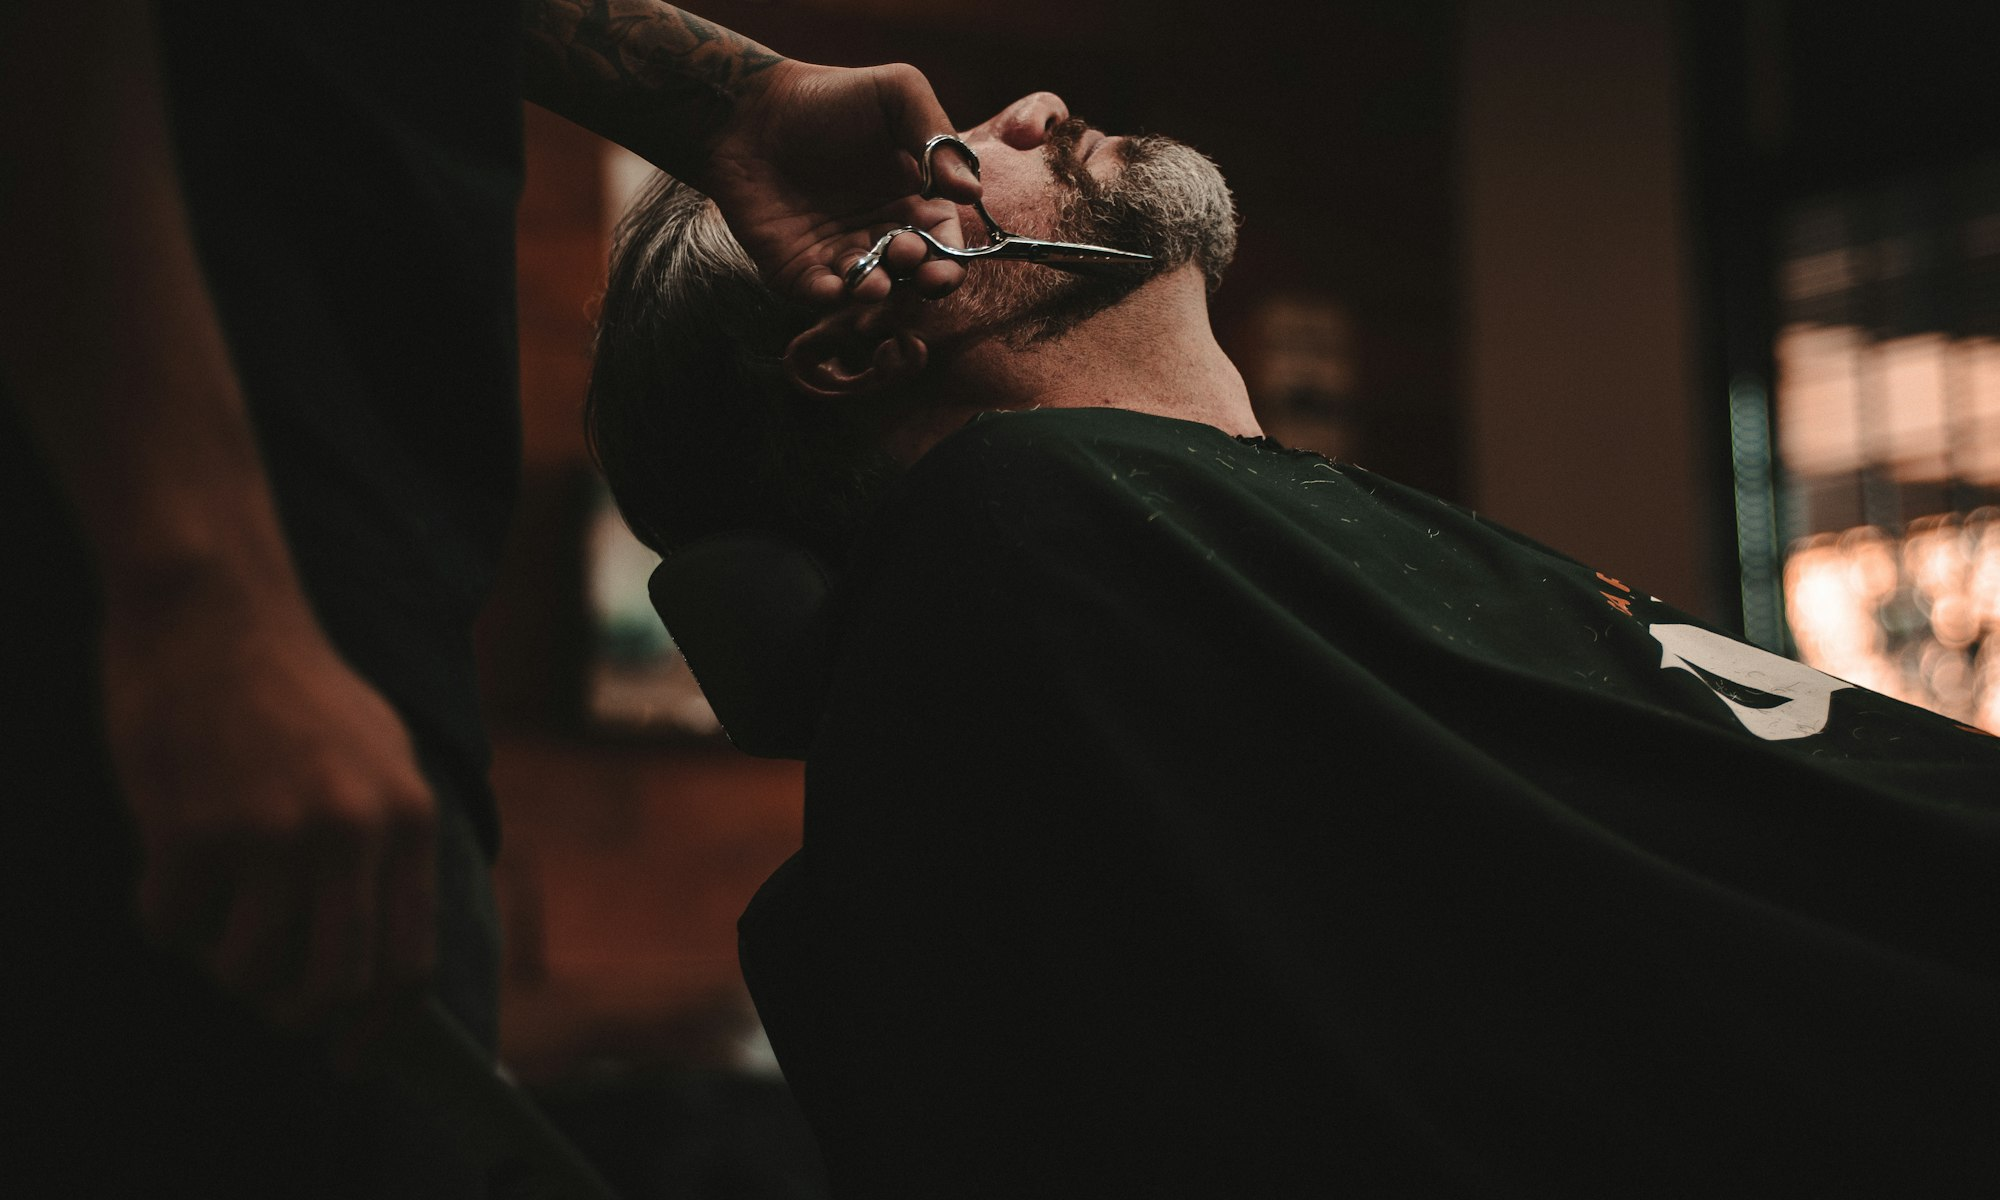
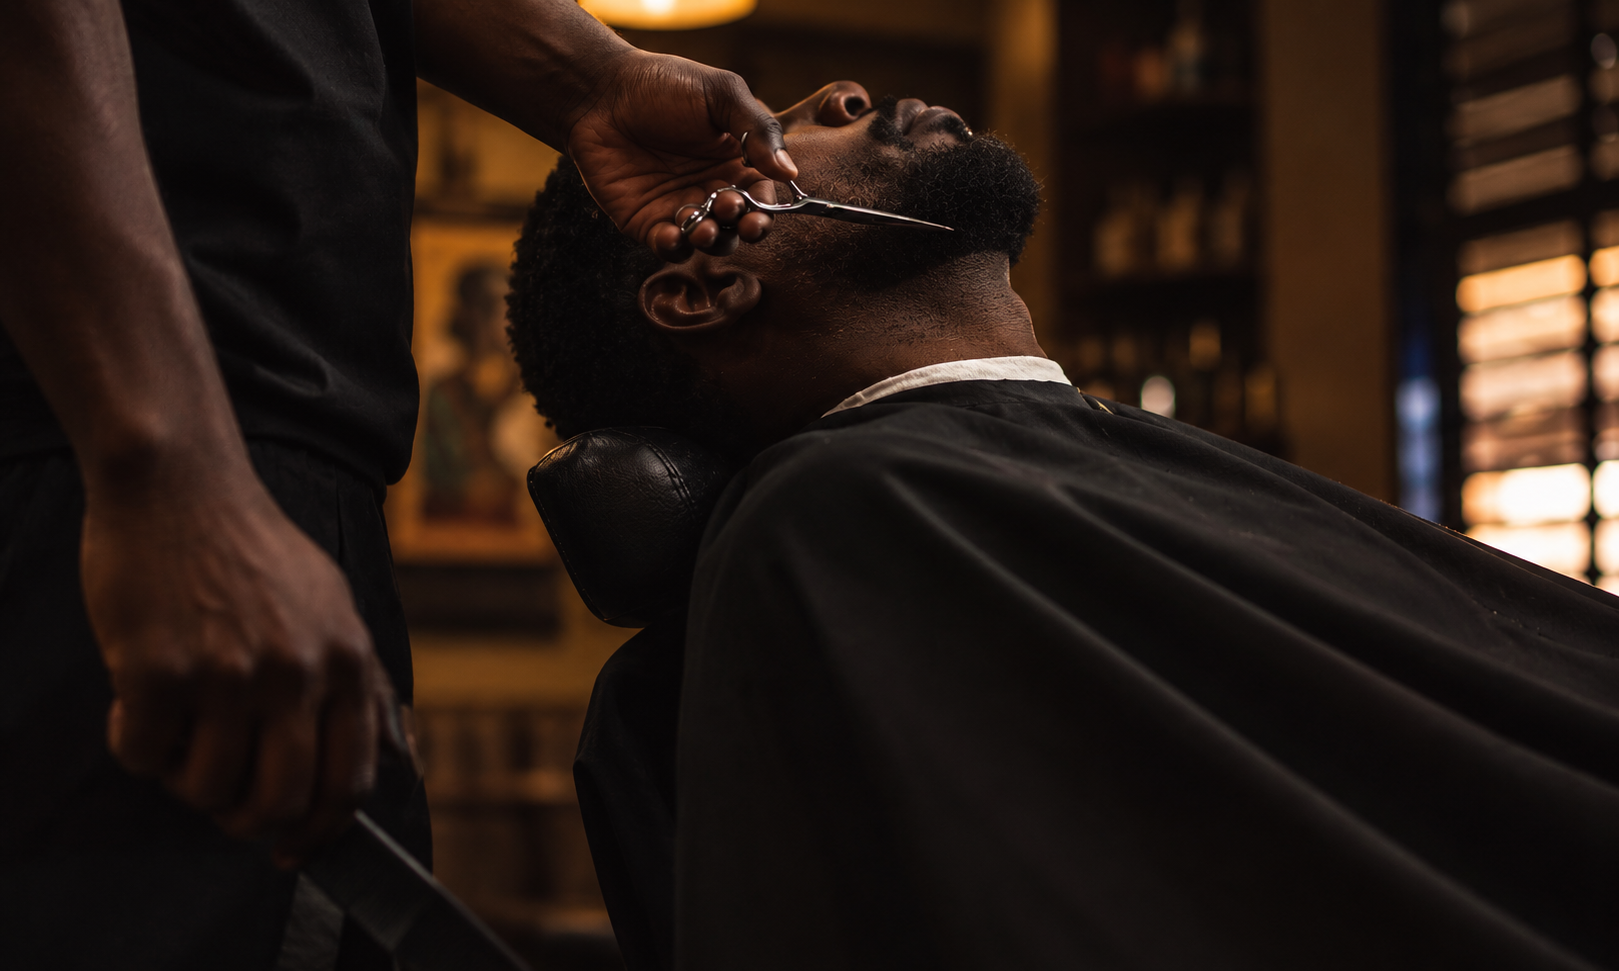
DONE

diff --git a/sus-kigali-haircut/sus/templates/admin/services.html b/sus-kigali-haircut/sus/templates/admin/services.html
@@ -36,9 +36,9 @@
     <label>Price (RWF)<input type="number" name="price" id="sf-price" required></label>
     <label>Duration (minutes)<input type="number" name="duration_minutes" id="sf-duration" value="30"></label>
     <label>Worker commission %
-      <input type="number" step="0.5" min="0" max="100" name="commission_rate" id="sf-rate"
-             placeholder="blank = {{ default_rate }}%">
-      <small class="muted">What the worker keeps on this service. Blank falls back to the worker's own rate, then the shop default ({{ default_rate }}%).</small>
+      <input type="number" step="any" min="0" max="100" inputmode="decimal"
+             name="commission_rate" id="sf-rate" placeholder="blank = {{ default_rate }}%">
+      <small class="muted">Any percentage is allowed, e.g. <code>17.5</code> or <code>33</code> — the commission is worked out from exactly what you type. Blank falls back to the worker's own rate, then the shop default ({{ default_rate }}%).</small>
     </label>
     <label class="span2">Description<input name="description" id="sf-desc"></label>
     <label class="check"><input type="checkbox" name="active" id="sf-active" checked> Active (visible on website)</label>

diff --git a/sus-kigali-haircut/sus/static/css/theme.css b/sus-kigali-haircut/sus/static/css/theme.css
@@ -353,12 +353,15 @@ label > input, label > select, label > textarea { margin-top: 6px; font-weight: 
    Elements opt in with data-reveal; site.js adds .is-visible.
    Fully inert for visitors who ask for reduced motion.
    ========================================================================== */
-[data-reveal] {
+/* The `.js` class is set by base_public.html on the very first line of <head>,
+   so reveals only hide content when scripting is actually available. Without
+   JavaScript every page stays fully readable. */
+.js [data-reveal] {
   opacity: 0; transform: translateY(18px);
   transition: opacity var(--dur-slow) var(--ease-out),
               transform var(--dur-slow) var(--ease-out);
 }
-[data-reveal].is-visible { opacity: 1; transform: none; }
+.js [data-reveal].is-visible { opacity: 1; transform: none; }
 [data-reveal-delay="1"] { transition-delay: .08s; }
 [data-reveal-delay="2"] { transition-delay: .16s; }
 [data-reveal-delay="3"] { transition-delay: .24s; }

diff --git a/sus-kigali-haircut/sus/templates/admin/settings.html b/sus-kigali-haircut/sus/templates/admin/settings.html
@@ -21,8 +21,9 @@
     <h2>Commission &amp; payroll rules</h2>
     <div class="form-grid">
       <label>Default commission rate (%)
-        <input type="number" name="default_commission_rate" step="0.5" value="{{ settings.default_commission_rate }}"></label>
-      <p class="muted small span2">Used only as the last resort. A service's own percentage
+        <input type="number" name="default_commission_rate" step="any" min="0" max="100"
+               inputmode="decimal" value="{{ settings.default_commission_rate }}"></label>
+      <p class="muted small span2">Any percentage is allowed, e.g. <code>18.75</code>. Used only as the last resort. A service's own percentage
         (Admin &rsaquo; Services &amp; Prices) wins, then the worker's own rate (Admin &rsaquo; Workers).</p>
       <label>Commission on discounted price?
         <select name="commission_on_discounted">

diff --git a/sus-kigali-haircut/sus/templates/admin/workers.html b/sus-kigali-haircut/sus/templates/admin/workers.html
@@ -35,7 +35,8 @@
       </select></label>
     <label>Base salary (RWF, fixed/hybrid only)<input type="number" name="base_salary" id="wf-salary" value="0"></label>
     <label>Commission rate % <small class="muted">(blank = use each service's own %, then the shop default {{ default_rate }}%)</small>
-      <input type="number" step="0.5" name="commission_rate" id="wf-rate"></label>
+      <input type="number" step="any" min="0" max="100" inputmode="decimal"
+             name="commission_rate" id="wf-rate" placeholder="blank = default"></label>
     <label>Status
       <select name="status"><option value="active">Active</option><option value="inactive">Inactive</option></select></label>
     <label>Login email (optional)<input type="email" name="email" id="wf-email"></label>

diff --git a/sus-kigali-haircut/sus/static/css/public.css b/sus-kigali-haircut/sus/static/css/public.css
@@ -354,6 +354,14 @@
 }
 .step h3 { font-size: var(--fs-md); margin-bottom: var(--s2); }
 .step p { font-size: var(--fs-sm); color: var(--text-soft); max-width: none; }
+/* Step cards inside a dark section (home page "Four steps to the chair").
+   The dark section paints every heading with --on-dark, so the card itself
+   has to be dark as well — a white card would render the step names
+   invisible (near-white text on a white surface). */
+.section-dark .step {
+  background: var(--ink-3); border-color: var(--line-dark); box-shadow: none;
+}
+.section-dark .step p { color: var(--on-dark-soft); }
 
 
 /* --------------------------------------------------------------------------

diff --git a/sus-kigali-haircut/sus/templates/base_public.html b/sus-kigali-haircut/sus/templates/base_public.html
@@ -1,6 +1,7 @@
 <!DOCTYPE html>
 <html lang="en">
 <head>
+  <script>document.documentElement.classList.add("js");</script>
   <meta charset="UTF-8">
   <meta name="viewport" content="width=device-width, initial-scale=1.0">
   <meta name="theme-color" content="#0b0b0c">

diff --git a/sus-kigali-haircut/sus/admin.py b/sus-kigali-haircut/sus/admin.py
@@ -151,7 +151,9 @@ def worker_save():
     w.specialty = f.get("specialty", "").strip() or None
     w.pay_type = f.get("pay_type", "commission")
     w.base_salary = int(f.get("base_salary") or 0)
-    w.commission_rate = float(rate) if rate else None
+    # Same parser as services: trims stray "%", accepts any decimal, and
+    # clamps to 0–100 so a typo can never over- or under-pay a worker.
+    w.commission_rate = _pct(rate)
     w.status = f.get("status", "active")
 
     # optional login for the worker
@@ -599,7 +601,15 @@ def settings_save():
               "currency", "default_commission_rate", "commission_on_discounted",
               "restrict_service_category", "pay_period", "loyalty_visits_for_reward"):
         if k in request.form:
-            Setting.set(k, request.form[k].strip())
+            value = request.form[k].strip()
+            if k == "default_commission_rate":
+                # Normalise to a clean 0–100 number so any decimal the owner
+                # types (17.5, 18.75 …) is kept exactly; blank keeps the old one.
+                pct = _pct(value)
+                if pct is None:
+                    continue
+                value = "%g" % pct
+            Setting.set(k, value)
     db.session.commit()
     return redirect(url_for("admin.settings"))
 
